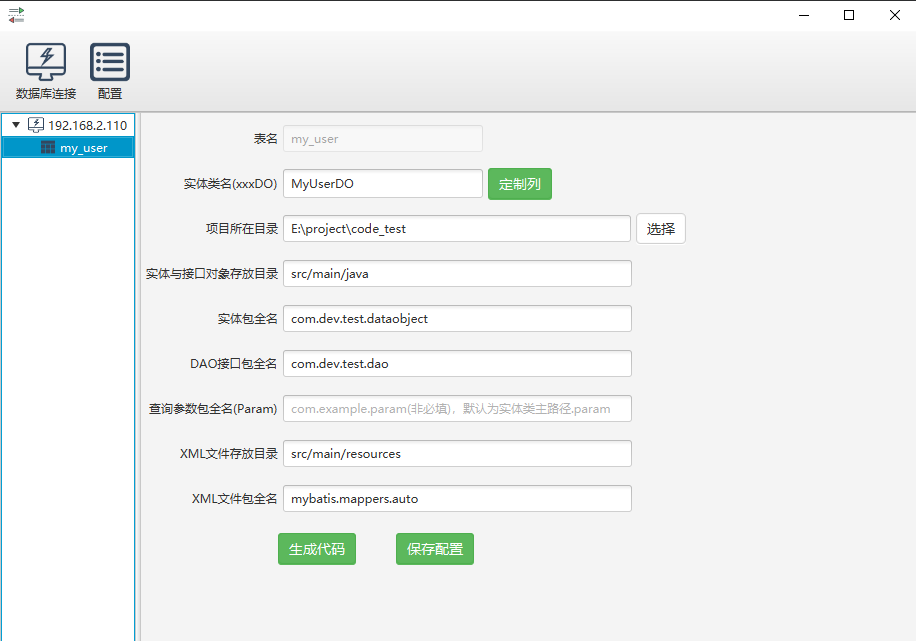
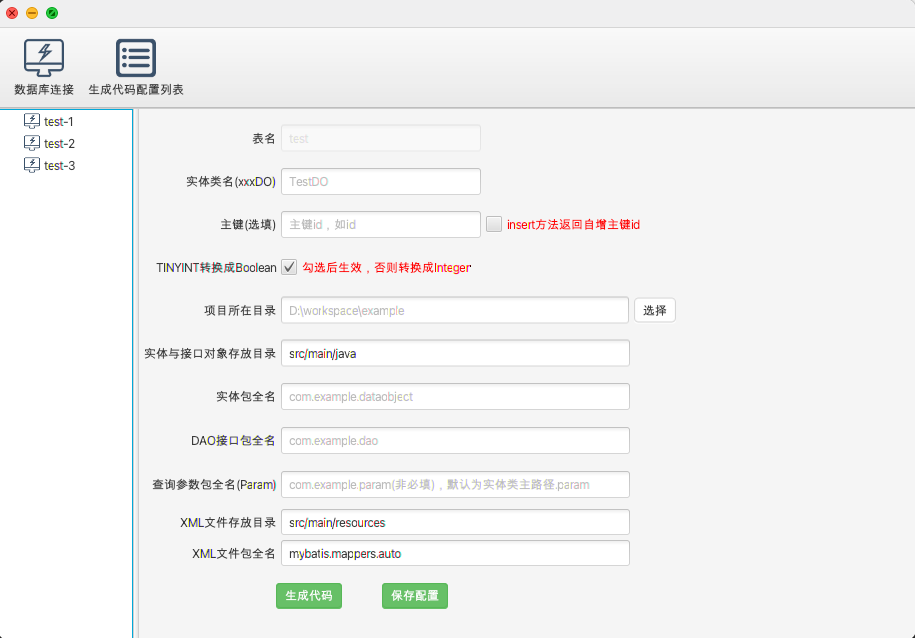
readme

diff --git a/README.md b/README.md
@@ -3,7 +3,7 @@
 #### 简介
 该工具基于mybatis-generator-gui项目进行重构，调整原工具配置界面，并根据自己实际开发习惯进行相应调整，主要修改点如下：
 - 升级mybatis-generator-core版本到1.3.7
-- 升级MySQL驱动文件版本到8.0.30，兼容MySQL8.0以下版本，已满足绝大部分生产需求
+- 升级MySQL驱动文件版本到8.4.0，兼容MySQL8.0以下版本，已满足绝大部分生产需求
 - 重构配置界面，优化配置项，使其语义更加明确
 - 插件默认化，无需勾选，默认常用插件，且重构&添加相关插件，主要包含：批量插入插件、example内容替换插件、注释插件、排序插件、分页插件、xml文件覆写插件、TINYINT默认转换成Boolean插件
 - 优化查询参数，参考自己生产使用情况，使其更符合开发习惯
@@ -14,18 +14,17 @@
 #### 相关说明
 ##### 工具运行相关界面
 ![img.png](src/main/resources/readmeimages/img.png)
-![img_1.png](src/main/resources/readmeimages/img_1.png)
+![img.png](src/main/resources/readmeimages/img_1.png)
 ![img_2.png](src/main/resources/readmeimages/img_2.png)
-
 <font color=red>代码生成截图如下：</font>
 
 ![img_3.png](src/main/resources/readmeimages/img_3.png)
 
 ##### 如何运行
-###### <font color=red>jdk版本要求>=1.8&&<=11，jdk版本不能太高，超过11运行可能会出现问题，建议使用jdk1.8</font>
+###### <font color=red>jdk版本要求：1.8<=jdk-version<=11，jdk版本不能太高，超过11运行可能会出现问题，建议使用jdk1.8</font>
 
-- 下载项目后，直接运行：com.itcrazy.mybatis.generator.MainApplication
-- 自行构建项目
+- 1.下载项目后，直接运行：com.itcrazy.mybatis.generator.MainApplication
+- 2.自行构建项目
   ```html
   git clone git@gitee.com:itcrazy0717/mybatis-generator.git
   cd mybatis-generator
@@ -36,6 +35,7 @@
   通过该方式可对使用sh脚本来创建快捷运行指令，启动非常方便
 
 #### 更新点 ！！！！！！
+- 生成代码配置列表：选项可查看、删除和修改，增强灵活性
 - 修复MySQL账号权限过大，导致跨库扫表问题
 - 修复TINYINT(1)字段映射异常问题，增加TINYINT转Boolean类型选项，增强字段映射可控性（有时TINYINT并不代表true或false，此时不需要转换成Boolean类型）
 - 升级MySQL驱动文件到8.4.0版本
